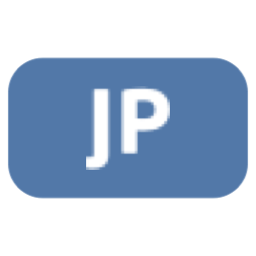
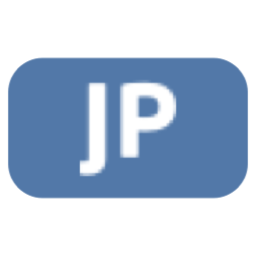
Enlarge JP lettering within unchanged badge and increase Xiaohongshu mark

Changed region(s): [[0.4688, 0.3125, 0.7188, 0.625], [0.3125, 0.3125, 0.4375, 0.6875]]

diff --git a/README.md b/README.md
@@ -9,10 +9,12 @@
 
 同一 PNG 分别放在浅色与深色背景中展示。
 
-![深浅主题全套预览](Preview/all-icons-blue-a-v9.png)
+![深浅主题全套预览](Preview/all-icons-blue-a-v10.png)
 
 ## 本次更新 · 2026-11-03
 
+- **JP**：仅放大白色字母约 15%，保留底牌尺寸与原字形。
+- **小红书**：保留完整字样，压缩外围留白，放大约 5%。
 - **Apple TV**：保留苹果与 tv 的完整组合标识，收紧两者间距，图形等比例放大约 10%。
 - **当前整体尺寸**：在上一版平衡尺寸的基础上，全部 50 个图标（含地区字母底牌）统一等比例缩小 5%，保持居中、透明背景与原有相对大小关系。
 
